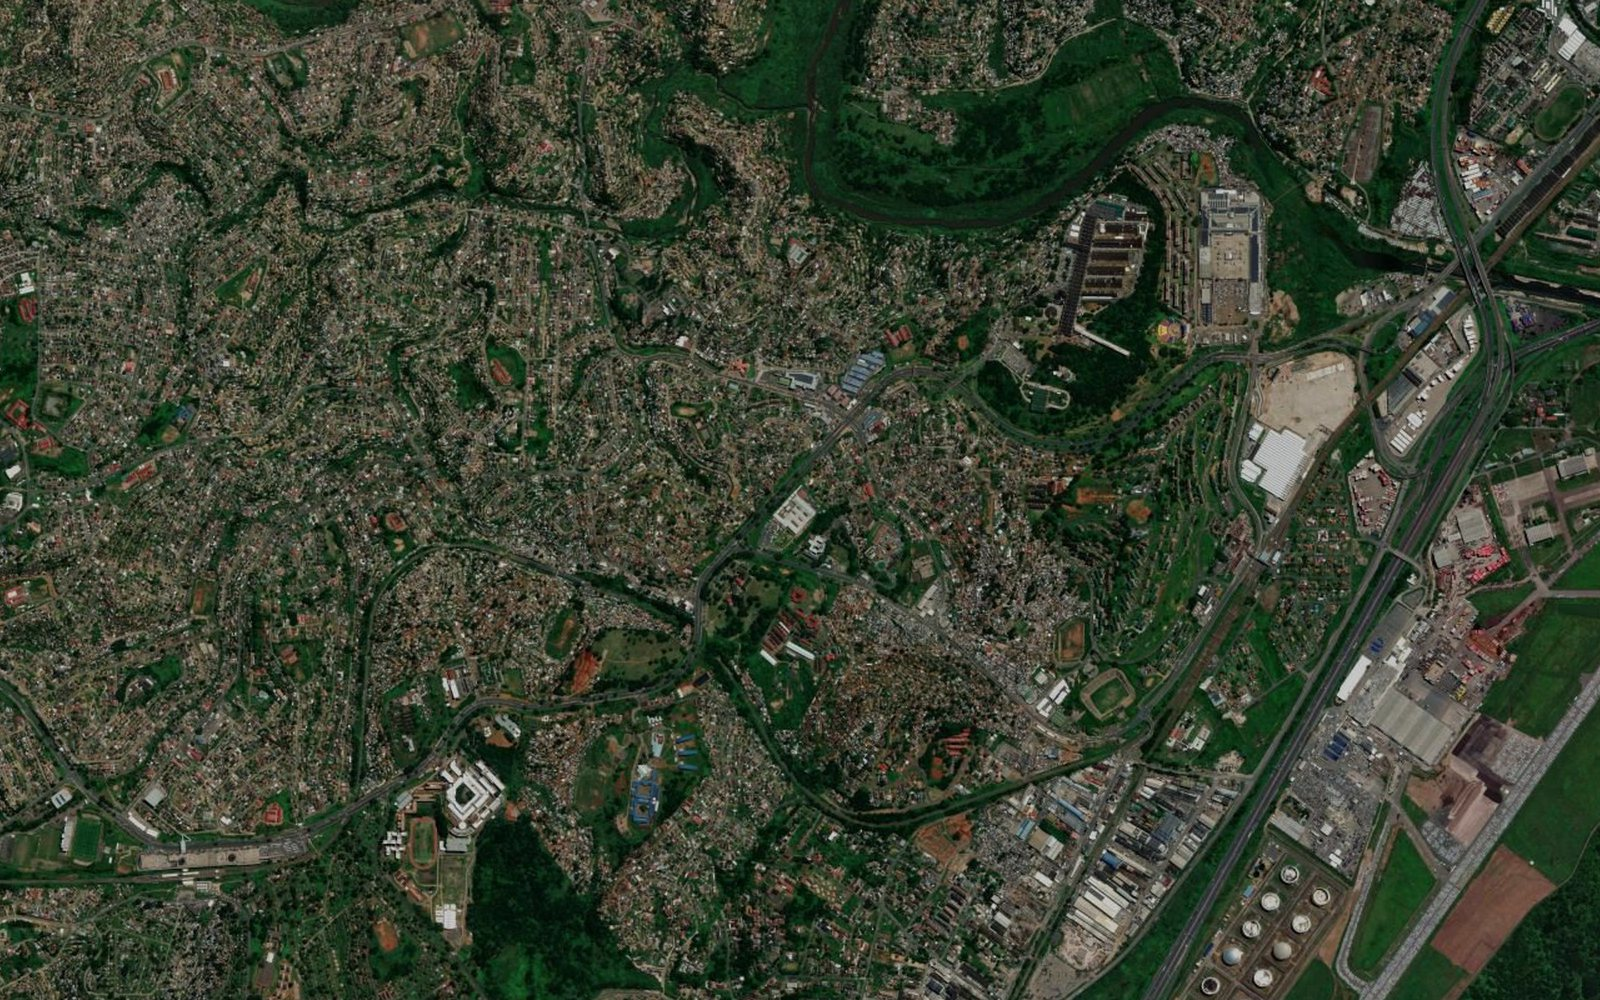
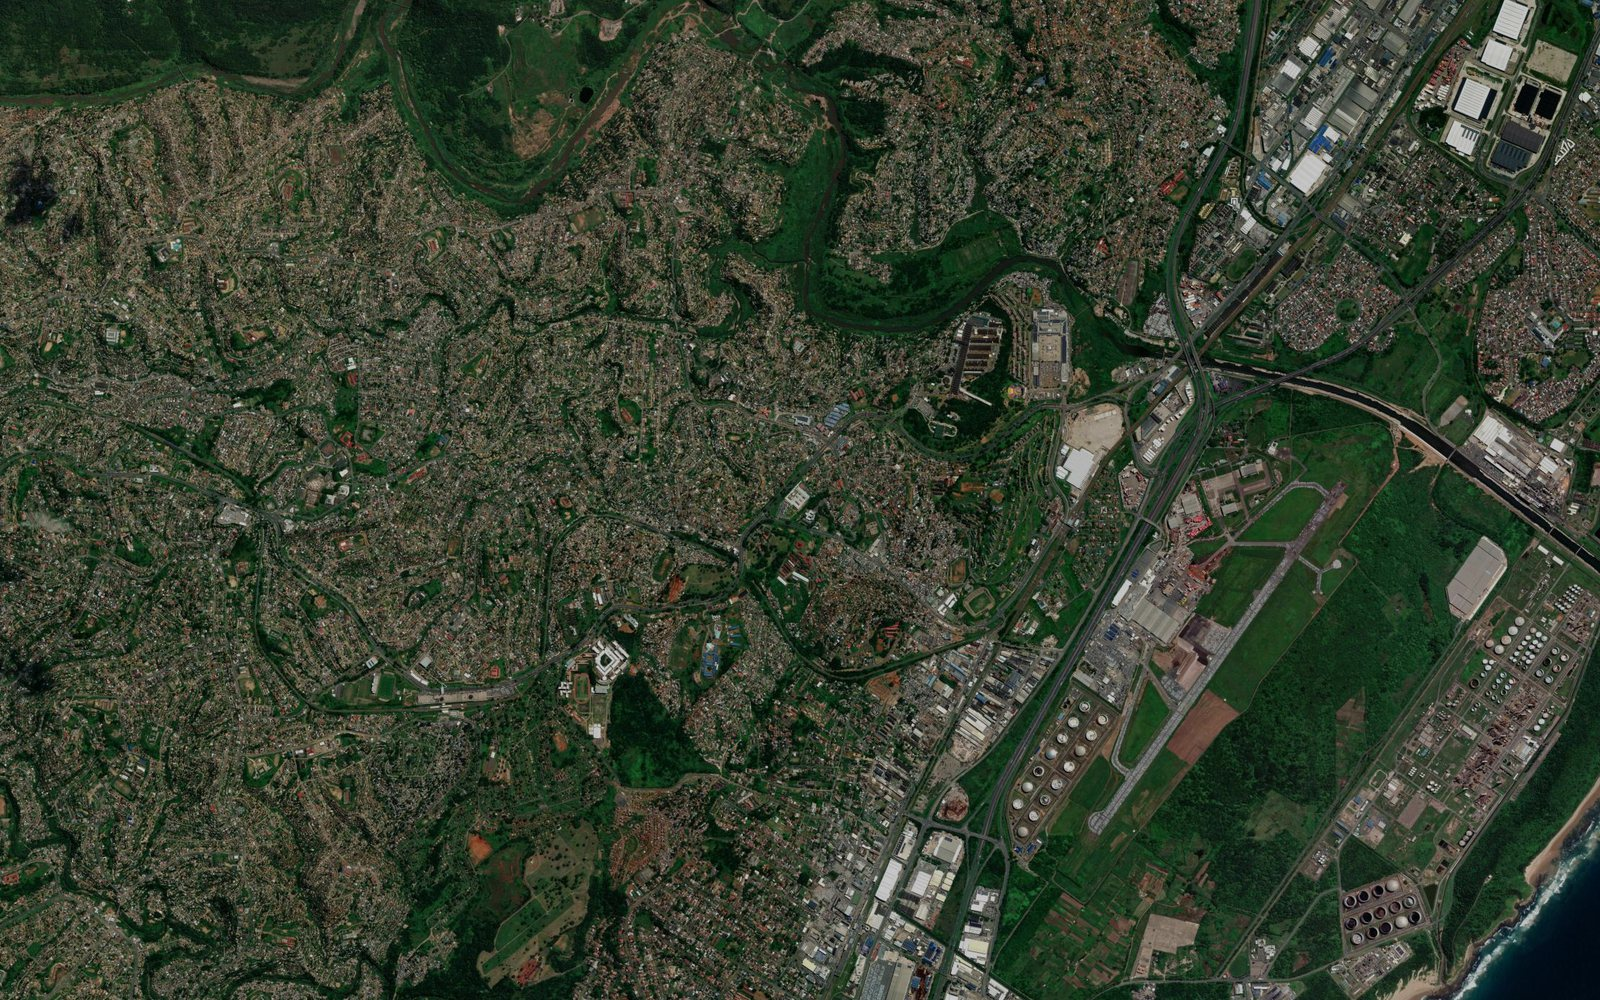
Intro: zoom out the move maps so every route stays on screen at any window shape

diff --git a/viz-wandile/intro/intro.js b/viz-wandile/intro/intro.js
@@ -5,7 +5,7 @@
 (function(){
 if (window.INTRO_ON === false || location.hash === '#map') return;
 const BASE='intro/', FPS=4, NF=244, fr=i=>BASE+'film8/f'+String(i).padStart(3,'0')+'.jpg';
-const PTS={bg_drop:{mega:[50.02,50.06]},bg_mapA:{mega:[13.15,65.7],tehuis:[47.73,65.7],lamont:[86.88,24.35]},bg_mapB:{lamont:[30.18,91.15],bayside:[69.86,9.05],umbilo:[48.02,35.56]},bg_flood:{mega:[29.63,82.5],tehuis:[35.67,82.5],lamont:[42.5,75.29],bayside:[70.43,17.5],umbilo:[55.05,36.16]}};
+const PTS={bg_drop:{mega:[50.02,50.06]},bg_mapA:{mega:[28.65,58.08],tehuis:[48.72,58.08],lamont:[71.44,34.08]},bg_mapB:{lamont:[42.31,62.08],bayside:[57.77,30.08],umbilo:[49.26,40.42]},bg_flood:{mega:[29.63,82.5],tehuis:[35.67,82.5],lamont:[42.5,75.29],bayside:[70.43,17.5],umbilo:[55.05,36.16]}};
 const PIN='<svg viewBox="0 0 56 70" aria-hidden="true"><path d="M28 68C28 68 4 42 4 26a24 24 0 0148 0c0 16-24 42-24 42z" fill="#FBC900"/><circle cx="21" cy="19" r="4" fill="#0B0F19"/><circle cx="35" cy="19" r="4" fill="#0B0F19"/><circle cx="28" cy="31" r="3" fill="#0B0F19"/><path d="M14 38v-6a7 7 0 0114 0v6zM28 38v-6a7 7 0 0114 0v6z" fill="#0B0F19"/><path d="M23 44v-4a5 5 0 0110 0v4z" fill="#0B0F19"/></svg>';
 const CRED='Illustration from our animation · the moves follow GroundUp\'s reporting on families from this camp (June 2022)';
 const TOWNS=[['uMlazi','where this story starts'],['Lamontville',''],['Isipingo',''],['KwaMashu',''],['Inanda',''],['Umbilo',''],['Durban central',''],['Chatsworth',''],['Pinetown','']];
